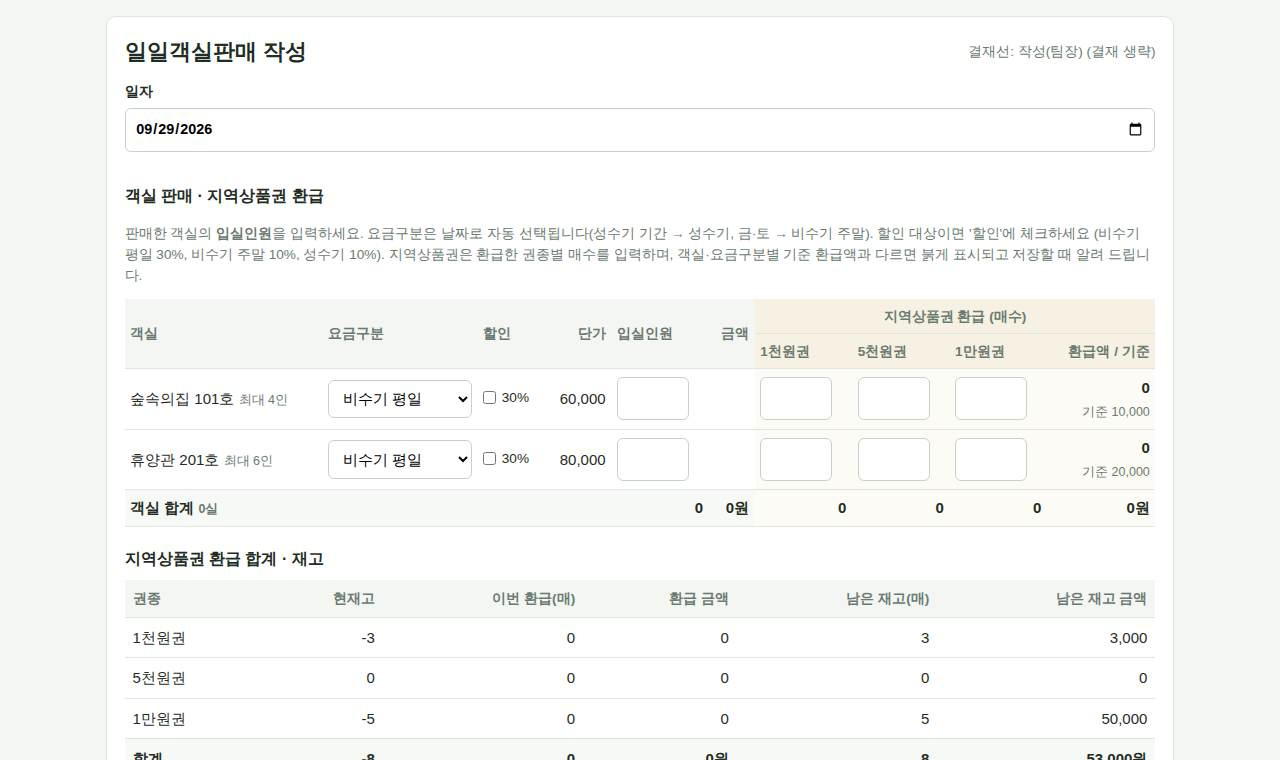
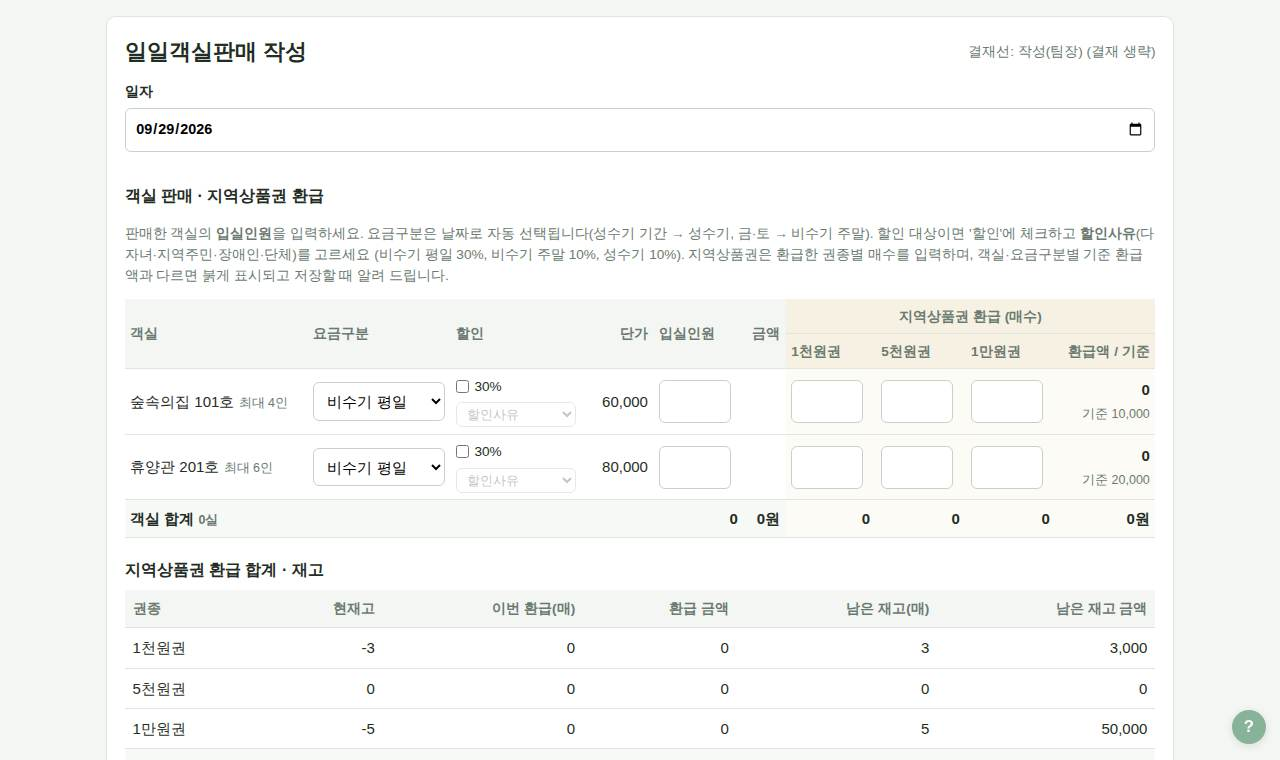
일일객실판매 객실별 할인사유 선택 (다자녀·지역주민·장애인·단체, DB v41)
할인 체크 시 사유 드롭다운이 켜지고 필수. sales_lines.dc_reason 저장, 보기·수정 이력 표시. 도움말·업데이트·README 반영.

Claude-Session: https://claude.ai/code/session_01Lr6yxKyasrSL9QLfMX5TX8

diff --git a/assets/app.js b/assets/app.js
@@ -56,6 +56,14 @@
         setText($(tr, '[data-dc-pct]'), pct + '%');
         dcBox.disabled = pct === 0;
         if (dcBox.disabled) dcBox.checked = false;
+        // 할인사유: 할인에 체크했을 때만 고르고, 비어 있으면 붉게
+        const why = $(tr, '[data-dc-reason]');
+        if (why) {
+          why.disabled = !dcBox.checked;
+          if (!dcBox.checked) why.value = '';
+          why.required = dcBox.checked;
+          why.classList.toggle('invalid', dcBox.checked && !why.value);
+        }
         const base = num(tr.dataset[rate]);
         const unit = dcBox.checked ? Math.floor(base * (100 - pct) / 1000) * 10 : base;
         const g = num($(tr, '[data-guests]').value);
@@ -179,7 +187,7 @@
       recalc();
     });
   });
-  document.querySelectorAll('[data-rate], [data-dc]').forEach((el) => el.addEventListener('change', recalc));
+  document.querySelectorAll('[data-rate], [data-dc], [data-dc-reason]').forEach((el) => el.addEventListener('change', recalc));
   document.querySelectorAll('[data-rent-time], [data-rent-night]').forEach((el) => el.addEventListener('change', recalc));
   document.querySelectorAll('[data-rent-youth]').forEach((el) => el.addEventListener('change', recalc));
 

diff --git a/assets/style.css b/assets/style.css
@@ -272,6 +272,8 @@ a.kpi:hover { text-decoration: none; border-color: var(--green); }
 .room-table tr.unassigned td { background: #fafafa; font-size: .85rem; }
 .room-table select { min-width: 7.5rem; }
 .dc-check { margin: 0; font-size: .85rem; }
+.dc-reason { width: auto; min-width: 6.2rem; margin: .2rem 0 0; padding: .2rem 1.4rem .2rem .4rem; font-size: .82rem; display: block; }
+.dc-reason:disabled { opacity: .45; }
 .dc-form { display: flex; flex-wrap: wrap; align-items: center; gap: .5rem 1rem; padding: .6rem .8rem; background: #f7f9f7; border-radius: 6px; margin-bottom: .75rem; }
 .dc-form label { display: inline-flex; align-items: center; gap: .3rem; margin: 0; font-weight: 400; }
 .dc-form input { width: 4rem; margin: 0; }

diff --git a/app/items.php b/app/items.php
@@ -137,6 +137,8 @@ function items_parse(string $type, string $workDate, int $journalId): array
             $rate = isset(RATE_TYPES[$row['rate'] ?? '']) ? $row['rate'] : rate_for_date($workDate);
             $dc = !empty($row['dc']);
             $unit = room_price($p, $rate, $dc);
+            $dcReason = (string) ($row['dc_reason'] ?? '');
+            if ($dc && $unit !== room_price($p, $rate) && !isset(ROOM_DC_REASONS[$dcReason])) $errors[] = "{$p['name']}: 할인사유를 고르세요.";
             $roomSeason = $rate === 'peak' ? season_for('room', $workDate) : null;
             $refund = voucher_amount($vouchers);
             $expected = room_refund($p, $rate);
@@ -146,6 +148,7 @@ function items_parse(string $type, string $workDate, int $journalId): array
             $lines[] = [
                 'product_id' => (int) $p['id'], 'grp' => 'room', 'name' => $p['name'], 'is_free' => 0,
                 'rate' => $rate, 'season' => $roomSeason['name'] ?? null, 'discounted' => (int) ($dc && $unit !== room_price($p, $rate)),
+                'dc_reason' => $dc && isset(ROOM_DC_REASONS[$dcReason]) ? $dcReason : null,
                 'unit_price' => $unit, 'qty' => 1, 'guests' => $guests, 'amount' => $unit,
                 'refund_expected' => $expected, 'vouchers' => $vouchers,
             ];
@@ -350,13 +353,13 @@ function items_save(int $id, string $type, array $payload): void
     if (in_array($type, SALE_DOC_TYPES, true)) {
         $pdo->prepare('DELETE FROM sales_lines WHERE journal_id = ?')->execute([$id]);
         $ins = $pdo->prepare(
-            'INSERT INTO sales_lines (journal_id, product_id, grp, name, is_free, rate, season, discounted, unit_price, qty, guests, refund_expected, rent_time, night, dc_pct, prog_type, sessions, auto, amount)
-             VALUES (?, ?, ?, ?, ?, ?, ?, ?, ?, ?, ?, ?, ?, ?, ?, ?, ?, ?, ?)'
+            'INSERT INTO sales_lines (journal_id, product_id, grp, name, is_free, rate, season, discounted, unit_price, qty, guests, refund_expected, rent_time, night, dc_pct, dc_reason, prog_type, sessions, auto, amount)
+             VALUES (?, ?, ?, ?, ?, ?, ?, ?, ?, ?, ?, ?, ?, ?, ?, ?, ?, ?, ?, ?)'
         );
         foreach ($payload['lines'] as $l) {
             $ins->execute([$id, $l['product_id'], $l['grp'], $l['name'], $l['is_free'], $l['rate'], $l['season'] ?? null,
                 $l['discounted'], $l['unit_price'], $l['qty'], $l['guests'], $l['refund_expected'] ?? null,
-                $l['rent_time'] ?? null, (int) ($l['night'] ?? 0), (int) ($l['dc_pct'] ?? 0), $l['prog_type'] ?? null, (int) ($l['sessions'] ?? 0), (int) ($l['auto'] ?? 0), $l['amount']]);
+                $l['rent_time'] ?? null, (int) ($l['night'] ?? 0), (int) ($l['dc_pct'] ?? 0), $l['dc_reason'] ?? null, $l['prog_type'] ?? null, (int) ($l['sessions'] ?? 0), (int) ($l['auto'] ?? 0), $l['amount']]);
             $lineId = (int) $pdo->lastInsertId();
             foreach ($l['vouchers'] ?? [] as $denom => $qty) {
                 if ($qty > 0) $moveIns->execute([$id, $lineId, 'out', $denom, $qty]);
@@ -495,7 +498,7 @@ function items_form(string $type, array $payload, string $workDate, ?array $jour
   <h3>객실 판매 · 지역상품권 환급</h3>
   <p class="muted small">
     판매한 객실의 <b>입실인원</b>을 입력하세요. 요금구분은 날짜로 자동 선택됩니다(성수기 기간 → 성수기, 금·토 → 비수기 주말).
-    할인 대상이면 '할인'에 체크하세요 (<?= e(implode(', ', array_map(fn($k, $v) => $v . ' ' . room_dc_pct($k) . '%', array_keys(RATE_TYPES), RATE_TYPES))) ?>).
+    할인 대상이면 '할인'에 체크하고 <b>할인사유</b>(<?= e(implode('·', ROOM_DC_REASONS)) ?>)를 고르세요 (<?= e(implode(', ', array_map(fn($k, $v) => $v . ' ' . room_dc_pct($k) . '%', array_keys(RATE_TYPES), RATE_TYPES))) ?>).
     지역상품권은 환급한 권종별 매수를 입력하며, 객실·요금구분별 기준 환급액과 다르면 붉게 표시되고 저장할 때 알려 드립니다.
   </p>
   <div class="table-scroll">
@@ -513,7 +516,10 @@ function items_form(string $type, array $payload, string $workDate, ?array $jour
         <td><select name="room[<?= $pid ?>][rate]" data-rate>
           <?php foreach (RATE_TYPES as $k => $label): ?><option value="<?= $k ?>" <?= $rate === $k ? 'selected' : '' ?>><?= e($label) ?></option><?php endforeach ?>
         </select></td>
-        <td class="nowrap"><label class="inline-check dc-check"><input type="checkbox" name="room[<?= $pid ?>][dc]" value="1" data-dc <?= !empty($l['discounted']) ? 'checked' : '' ?>><span data-dc-pct></span></label></td>
+        <td class="nowrap"><label class="inline-check dc-check"><input type="checkbox" name="room[<?= $pid ?>][dc]" value="1" data-dc <?= !empty($l['discounted']) ? 'checked' : '' ?>><span data-dc-pct></span></label>
+          <select name="room[<?= $pid ?>][dc_reason]" class="dc-reason" data-dc-reason aria-label="할인사유"><option value="">할인사유</option>
+            <?php foreach (ROOM_DC_REASONS as $k => $label): ?><option value="<?= $k ?>" <?= ($l['dc_reason'] ?? '') === $k ? 'selected' : '' ?>><?= e($label) ?></option><?php endforeach ?>
+          </select></td>
         <td class="right" data-unit>0</td>
         <td><input name="room[<?= $pid ?>][guests]" value="<?= e(($l['guests'] ?? 0) ?: '') ?>" inputmode="numeric" class="num tiny" data-money data-guests></td>
         <td class="right" data-line-amount>0</td>
@@ -832,7 +838,7 @@ function items_view(array $journal): void
         $refund = voucher_amount($l['vouchers']);
         $mismatch = $l['refund_expected'] !== null && $refund !== (int) $l['refund_expected']; ?>
       <tr class="<?= $mismatch ? 'issue' : '' ?>"><td><?= e($l['name']) ?></td>
-        <td><?= e(RATE_TYPES[$l['rate']] ?? '') ?><?= $l['season'] ? ' <small class="muted">(' . e($l['season']) . ')</small>' : '' ?><?= $l['discounted'] ? ' <span class="badge st-pending">할인</span>' : '' ?></td>
+        <td><?= e(RATE_TYPES[$l['rate']] ?? '') ?><?= $l['season'] ? ' <small class="muted">(' . e($l['season']) . ')</small>' : '' ?><?= $l['discounted'] ? ' <span class="badge st-pending">할인' . (!empty($l['dc_reason']) ? ' · ' . e(ROOM_DC_REASONS[$l['dc_reason']] ?? $l['dc_reason']) : '') . '</span>' : '' ?></td>
         <td class="right"><?= number_format($l['unit_price']) ?></td>
         <td class="right"><?= number_format($l['guests']) ?></td><td class="right"><?= number_format($l['amount']) ?></td>
         <?php foreach ($denoms as $d): ?><td class="right"><?= $l['vouchers'][$d] ? number_format($l['vouchers'][$d]) : '' ?></td><?php endforeach ?>

diff --git a/app/changelog.php b/app/changelog.php
@@ -7,6 +7,10 @@ defined('APP_ROOT') || exit;
  *   ['date' => 'YYYY-MM-DD', 'title' => '한 줄 요약', 'items' => ['자세한 내용', ...], 'menu' => '관련 메뉴(선택)']
  */
 const CHANGELOG = [
+    ['date' => '2026-09-29', 'title' => '일일객실판매 할인사유 선택', 'menu' => '객실관리', 'items' => [
+        "객실마다 '할인'에 체크하면 할인사유(다자녀·지역주민·장애인·단체)를 드롭다운에서 고릅니다. 할인했는데 사유를 고르지 않으면 저장되지 않습니다.",
+        '사유는 보기 화면(할인 · 다자녀)과 수정 이력에 나옵니다.',
+    ]],
     ['date' => '2026-09-29', 'title' => '팀별 시설점검·시설물 사용 설정', 'menu' => '설정', 'items' => [
         "설정 › 조직 구성의 팀마다 '시설점검·시설물' 체크를 두었습니다. 끄면 그 팀이 시설관리 › 시설점검·시설물 화면(팀 탭·목록·작성)과 설정 › 시설 구역·건물에서 빠집니다.",
         '프로그램만 운영하고 시설을 관리하지 않는 팀에 쓰세요. 이미 작성한 점검일지와 등록한 시설은 그대로 남습니다.',

diff --git a/app/migrate.php b/app/migrate.php
@@ -6,7 +6,7 @@ defined('APP_ROOT') || exit;
  * 새 버전 파일을 FTP로 덮어쓰기만 하면, 첫 접속 때 부족한 테이블/컬럼을 만든다.
  * (기존 자료는 그대로 유지)
  */
-const DB_VERSION = 40;
+const DB_VERSION = 41;
 
 function db_version(): int
 {
@@ -387,6 +387,11 @@ function db_migrate(): void
     // 40) v39 → v40: 팀별 시설점검·시설물 사용 여부 (설정 › 조직 구성). 끄면 시설점검·시설물 화면에서 그 팀이 빠진다
     if (!column_exists('teams', 'use_facility')) {
         $pdo->exec("ALTER TABLE teams ADD use_facility TINYINT(1) NOT NULL DEFAULT 1 COMMENT '시설점검·시설물 사용' AFTER sort_order");
+    }
+
+    // 41) v40 → v41: 일일객실판매 객실별 할인사유 (다자녀·지역주민·장애인·단체)
+    if (!column_exists('sales_lines', 'dc_reason')) {
+        $pdo->exec("ALTER TABLE sales_lines ADD dc_reason VARCHAR(20) NULL COMMENT '객실 할인사유 (ROOM_DC_REASONS 키)' AFTER dc_pct");
     }
 
     $pdo->prepare("INSERT INTO settings (name, value) VALUES ('db_version', ?) ON DUPLICATE KEY UPDATE value = VALUES(value)")

diff --git a/app/help.php b/app/help.php
@@ -181,6 +181,7 @@ HTML],
 <p>날짜마다 1건, 매출보고와 <b>따로 결재</b>합니다.</p>
 <ul>
   <li>판매한 객실의 <b>입실인원</b>만 입력하면 판매로 잡힙니다. 요금구분(성수기·비수기 주말·평일)은 날짜로 자동 선택, <b>할인</b> 체크 시 할인율 적용.</li>
+  <li>할인에 체크하면 옆의 <b>할인사유</b>(다자녀·지역주민·장애인·단체)를 꼭 고릅니다. 고르지 않으면 붉게 표시되고 저장되지 않습니다. 사유는 보기 화면과 수정 이력에 나옵니다.</li>
   <li><b>지역상품권 환급</b>: 객실별 권종 매수. 기준 환급액과 다르면 붉게 표시되고 저장 시 확인합니다. 아래에 환급 합계와 남은 재고.</li>
   <li>저장하면 그 날 매출보고의 쉬자파크숙박(입실)과 다음 날 (퇴실)이 자동으로 맞춰집니다.</li>
 </ul>

diff --git a/app/revisions.php b/app/revisions.php
@@ -79,7 +79,7 @@ function journal_snapshot(array $journal): array
                 $lines[] = "{$l['name']} " . number_format($l['qty']) . '매 × ' . number_format($l['unit_price']) . ' = ' . number_format($l['amount']) . '원';
             } else {
                 $refund = $vouchersText($l['vouchers'] ?? []);
-                $lines[] = "{$l['name']} · " . (RATE_TYPES[$l['rate']] ?? '') . ($l['discounted'] ? ' · 할인' : '')
+                $lines[] = "{$l['name']} · " . (RATE_TYPES[$l['rate']] ?? '') . ($l['discounted'] ? ' · 할인' . (!empty($l['dc_reason']) ? '(' . (ROOM_DC_REASONS[$l['dc_reason']] ?? $l['dc_reason']) . ')' : '') : '')
                     . ' · ' . $l['guests'] . '명 · ' . number_format($l['amount']) . '원' . ($refund ? " · 환급 $refund" : '');
             }
         }

diff --git a/app/helpers.php b/app/helpers.php
@@ -68,6 +68,7 @@ const RENT_DC_RULES = [
 // 객실 요금구분
 const RATE_TYPES = ['weekday' => '비수기 평일', 'weekend' => '비수기 주말', 'peak' => '성수기'];
 const RATE_DC_DEFAULT = ['weekday' => 30, 'weekend' => 10, 'peak' => 10]; // 할인율(%) 기본값
+const ROOM_DC_REASONS = ['multichild' => '다자녀', 'local' => '지역주민', 'disabled' => '장애인', 'group' => '단체']; // 객실 할인사유 (일일객실판매)
 
 const JOURNAL_STATUS = [
     'draft'    => '임시저장',

diff --git a/README.md b/README.md
@@ -198,7 +198,7 @@
 | 객실 | 객실명, 객실 분류(필수 — 인원·요금·환급액은 분류 값이 들어가고 객실 표에서는 보기만), 표시순서, 판매 여부 |
 | 시설대관 | 시설명, 대관 시간별 요금(**2시간 · 4시간 · 4시간 이상(18시까지)**), **야간(18~21시) 추가요금**, 표시순서, 판매 여부 |
 | 대관 숙박시설 | 시설명, **정액 요금**, 표시순서, 판매 여부 (할인은 매출보고에서 시설대관과 합쳐 통합 할인) |
-| 객실 할인율 | 요금구분별로 일괄 적용 (기본: 비수기 평일 30%, 비수기 주말 10%, 성수기 10%). 할인가는 10원 단위 버림 |
+| 객실 할인율 | 요금구분별로 일괄 적용 (기본: 비수기 평일 30%, 비수기 주말 10%, 성수기 10%). 할인가는 10원 단위 버림.<br>일일객실판매에서 할인에 체크하면 **할인사유**(다자녀·지역주민·장애인·단체, `ROOM_DC_REASONS`)를 반드시 고르며 `sales_lines.dc_reason`(DB v41)에 저장 |
 
 - 가격을 바꿔도 **이미 작성된 매출보고 금액은 바뀌지 않습니다** (작성 당시 상품명·단가를 함께 저장).
 - 매출보고에 쓰인 상품은 삭제할 수 없고, '판매' 체크를 해제해 목록에서 숨깁니다.
